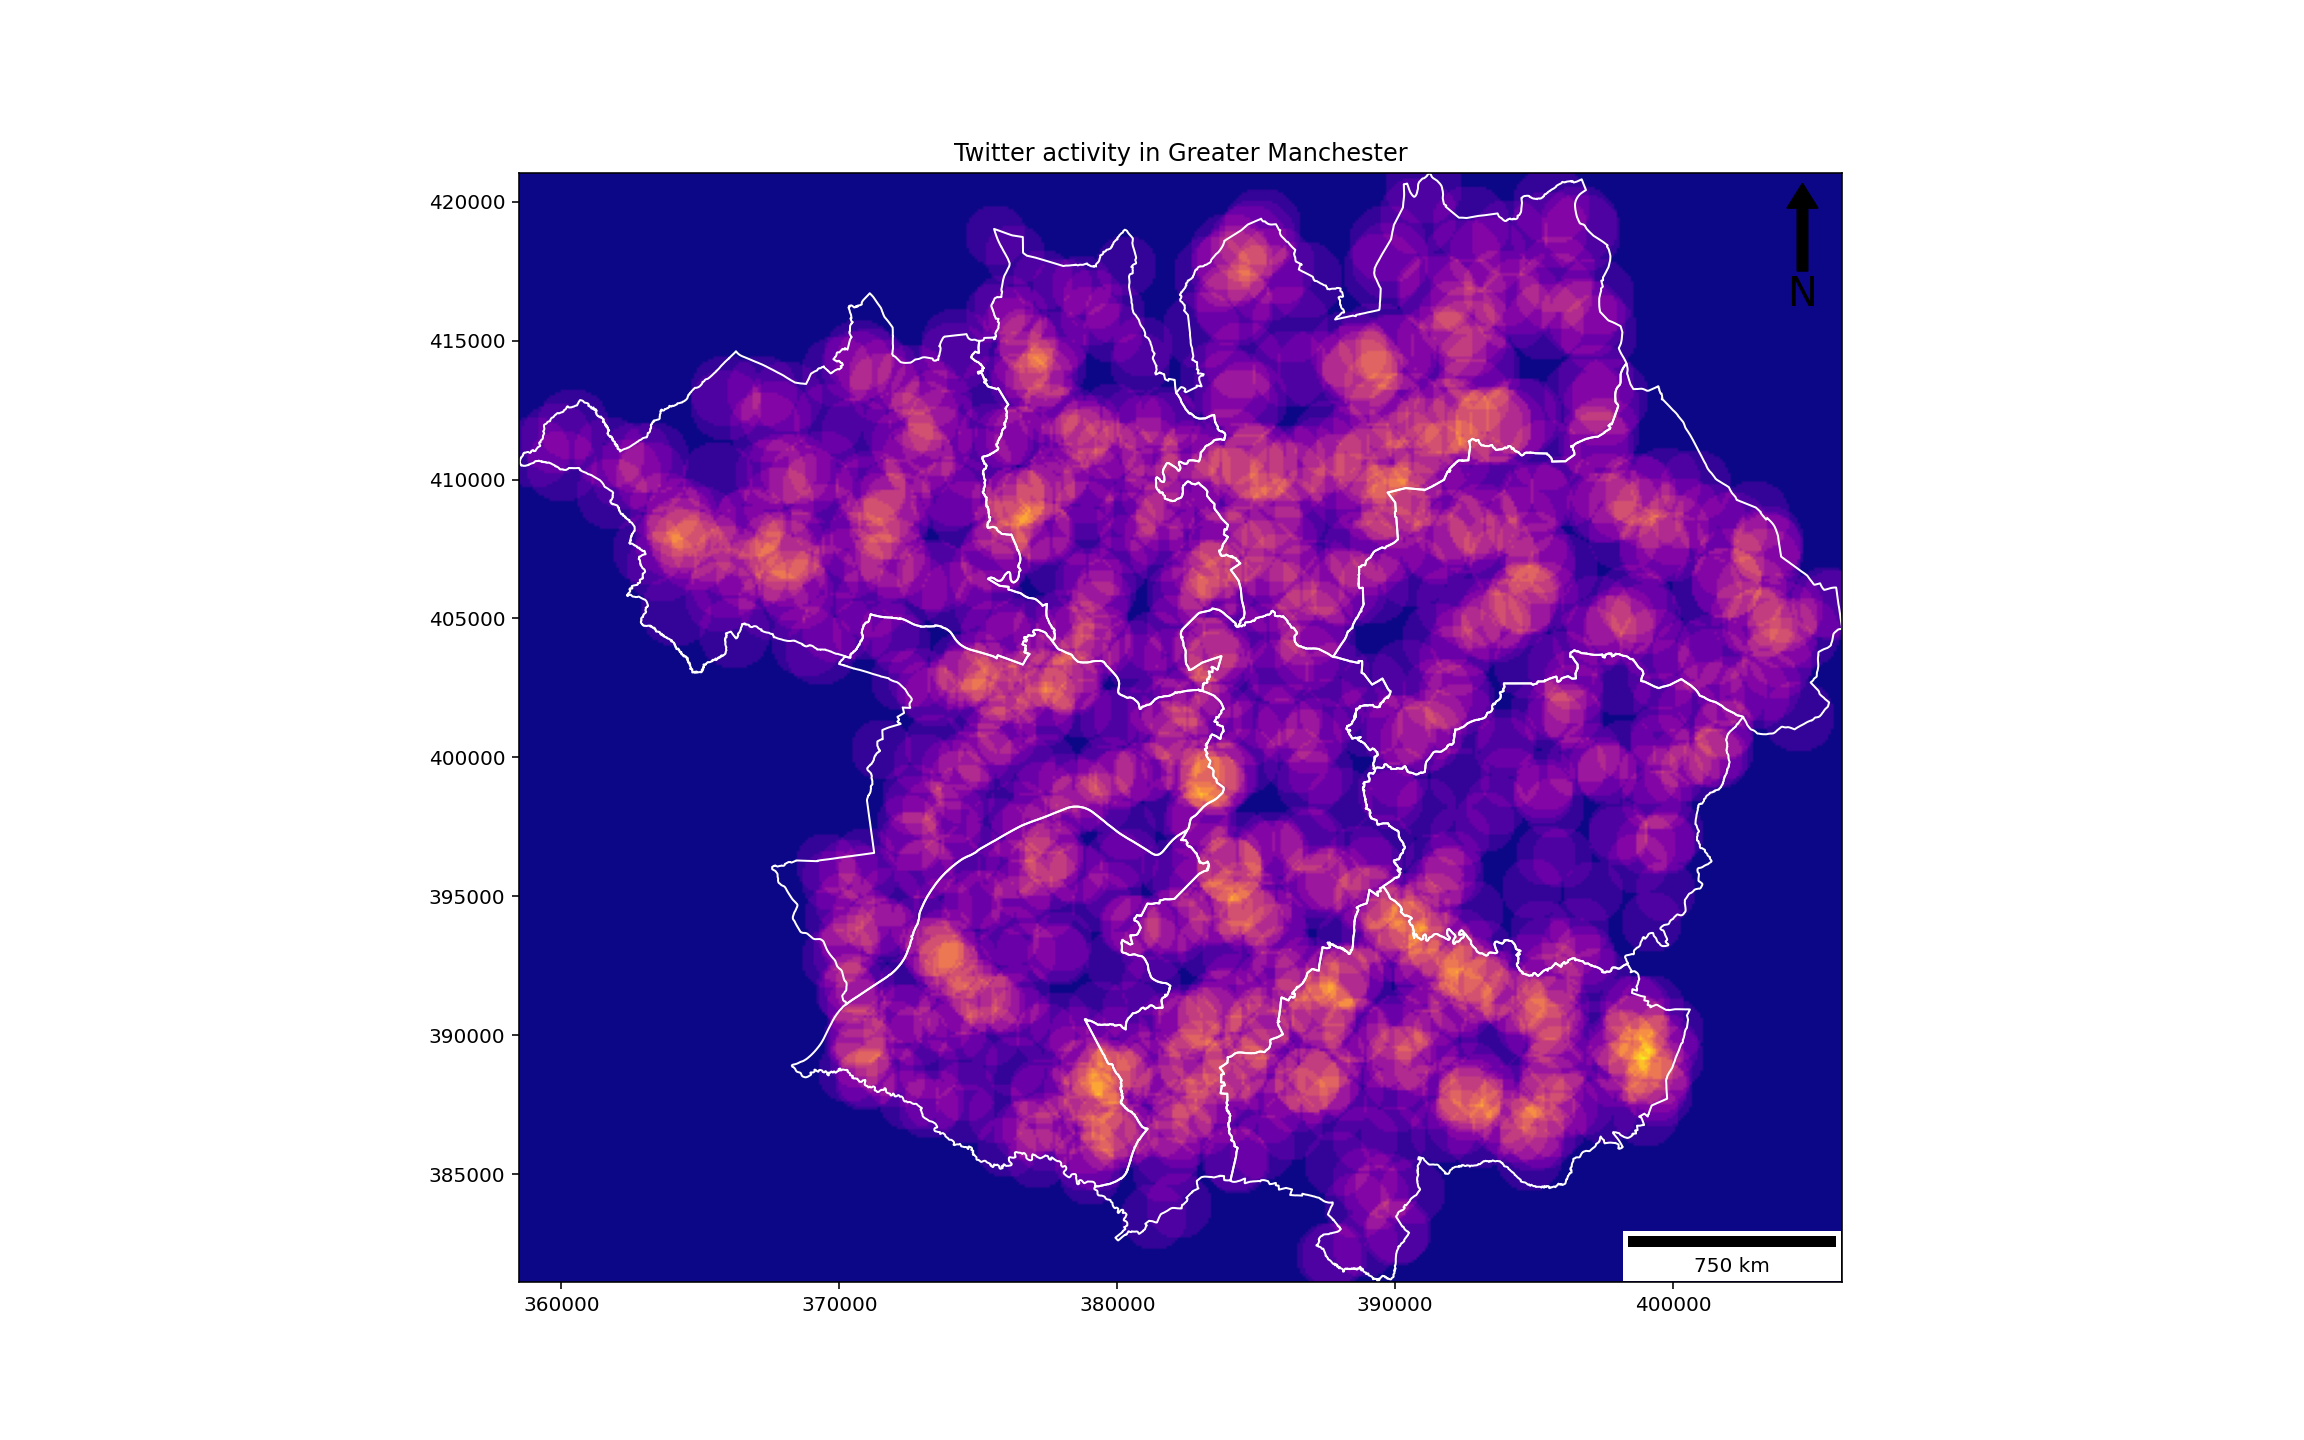
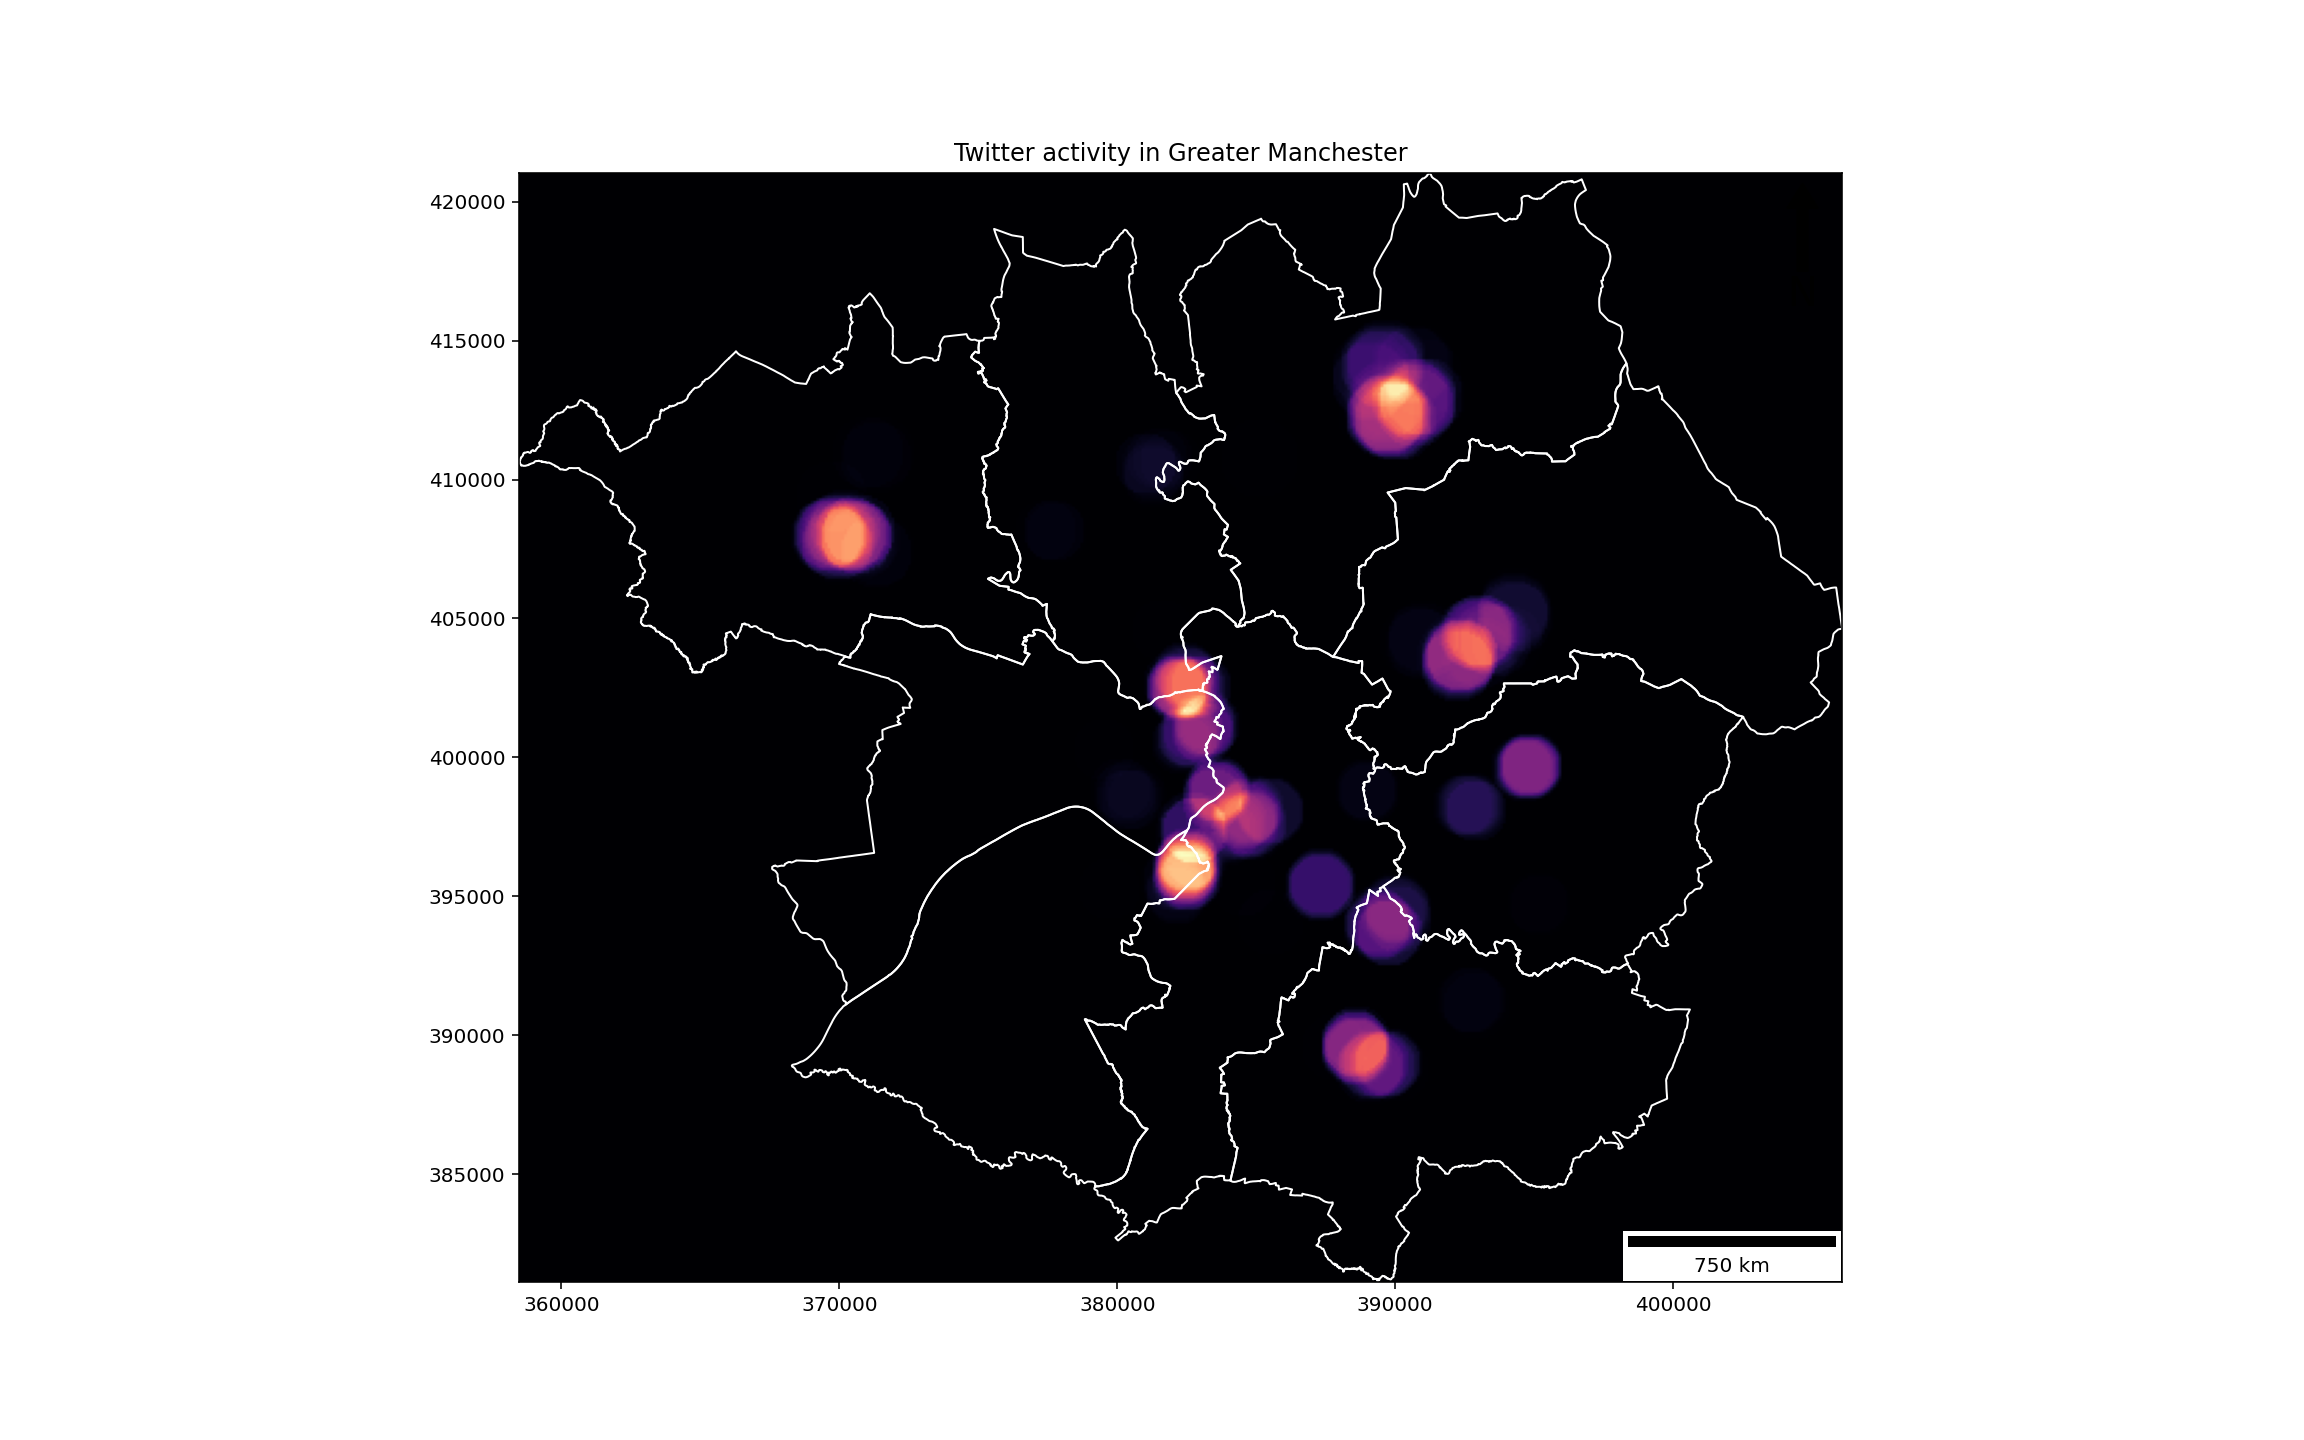
Update

diff --git a/assessment2.py b/assessment2.py
@@ -19,6 +19,7 @@ from matplotlib_scalebar.scalebar import ScaleBar
 from matplotlib.pyplot import subplots, savefig
 from rasterio.plot import show as rio_show
 from skimage.draw import disk
+from random import seed
 from numpy import zeros
     #Importing files
 tweets_dataset = read_file("C:/Users/User/OneDrive - The University of Manchester/UGIS/GitHub/ugis-assessment2/data/wr/level3-tweets-subset.shp")
@@ -33,6 +34,8 @@ rows = pop_data.shape[0]
 cols = pop_data.shape[1]
 
 outputSurface = zeros((rows,cols), dtype = 'float32')
+#Set the seed for analysis
+seed(2025)
 
 def weighted_redistribution (w,s):       
     #Creating an empty list
@@ -89,6 +92,7 @@ def weighted_redistribution (w,s):
             for r_idx, c_idx in zip(r,c):
                 outputSurface[r_idx][c_idx] += w
     return outputSurface
+
 outputSurface = weighted_redistribution (w=1.0, s=0.2)
 
 #Creating a map
@@ -99,7 +103,7 @@ rio_show(
     outputSurface,
     ax=my_ax,
     transform=transform,
-    cmap="plasma",
+    cmap="magma",
     )
 
 gm_districts.boundary.plot(
